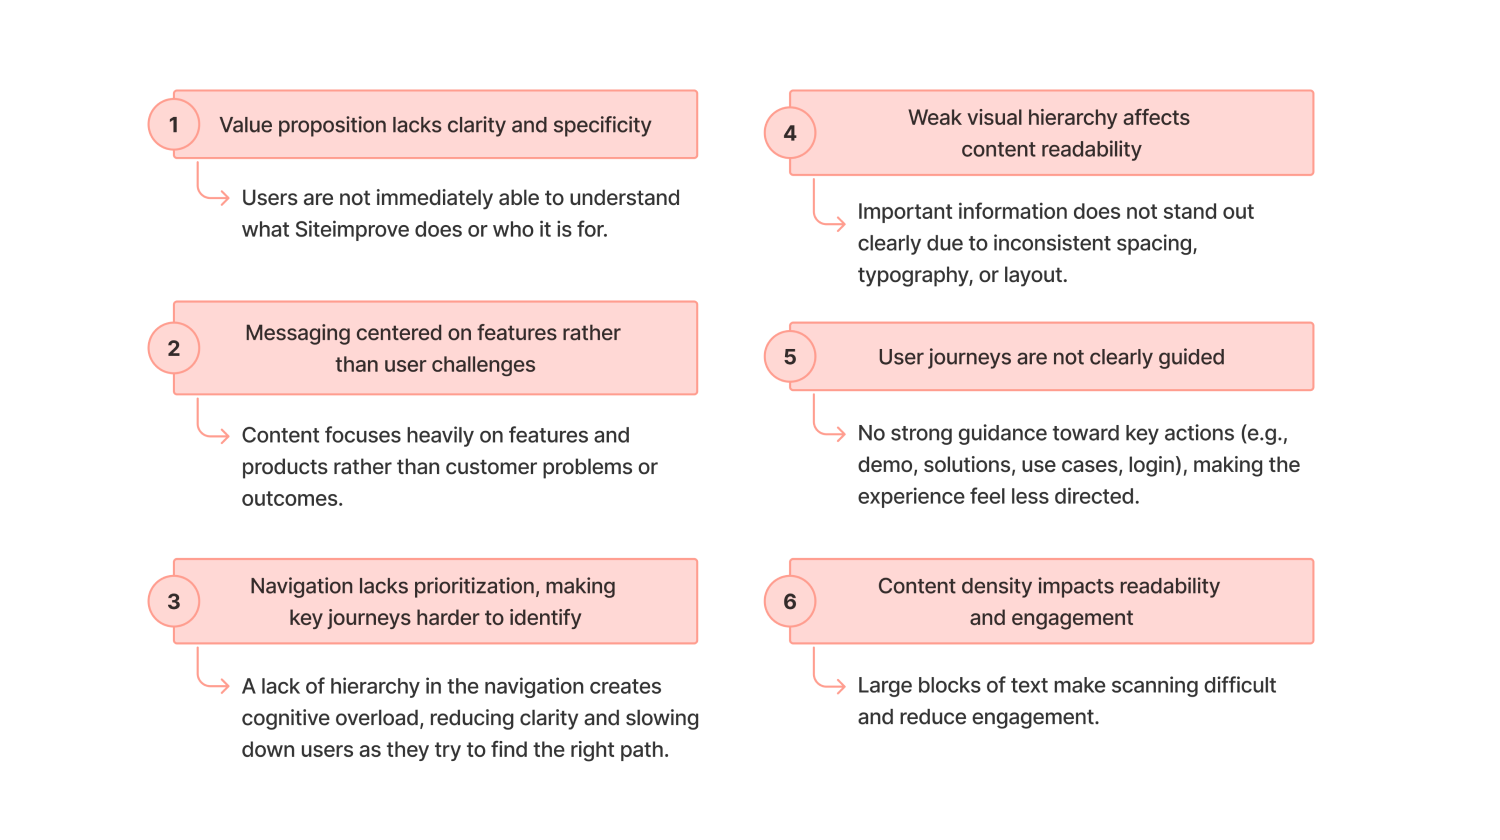
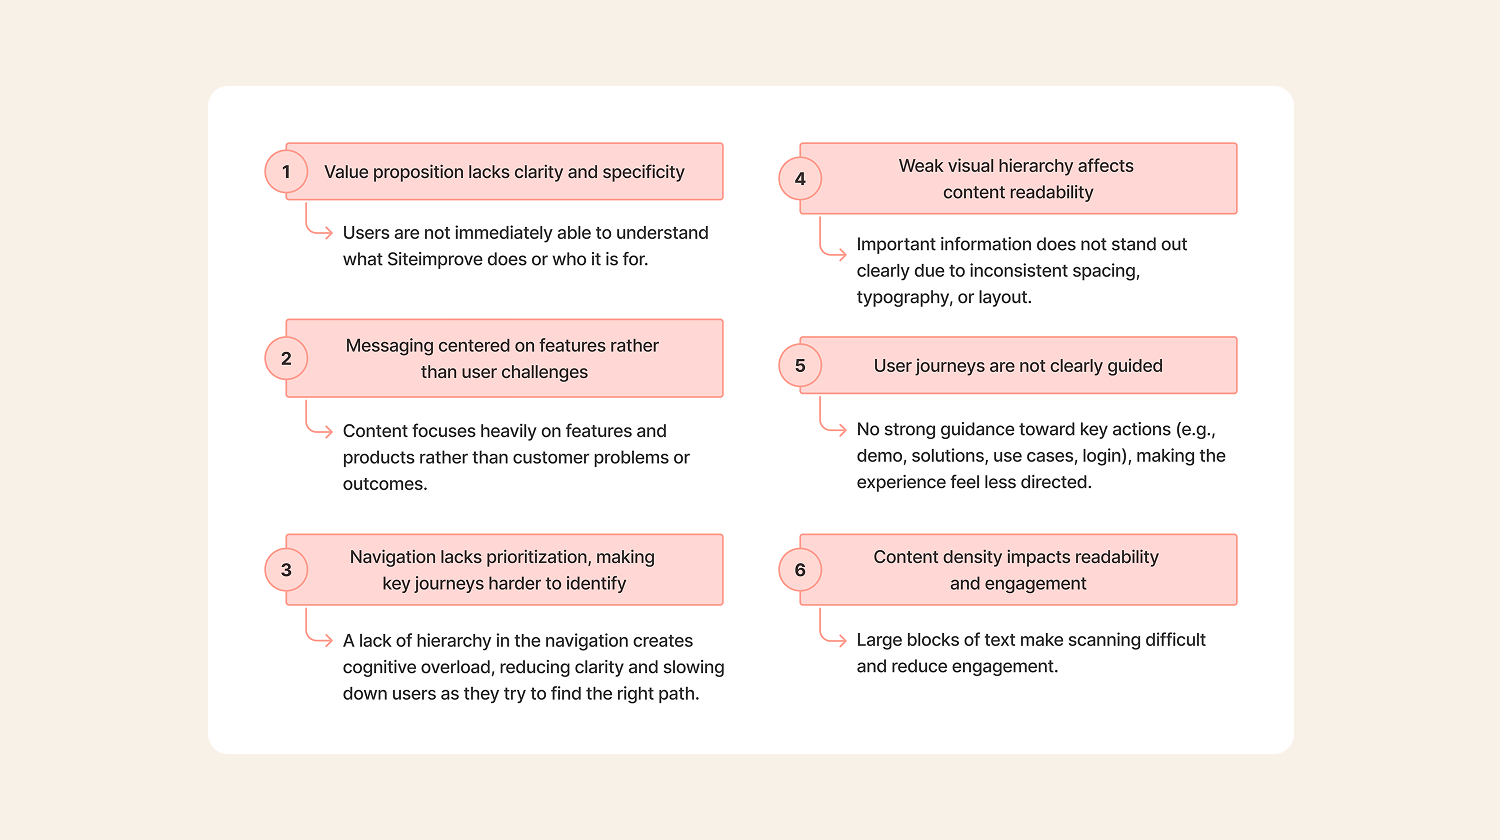
Images updated

Changed region(s): [[0.092, 0.0929, 0.8893, 0.8976]]

diff --git a/projects/project-1.html b/projects/project-1.html
@@ -108,11 +108,21 @@ I collaborated closely with cross-functional teams to ensure alignment between b
         <h3>Benchmarking &amp; Research</h3>
         <p>I analyzed competitors and best-in-class SaaS platforms to identify patterns in messaging clarity, navigation systems, and conversion-focused layouts. This helped define standards for a more modern and user-friendly experience.</p>      
       </div>
+      <!-- <div>
+        <img src="../images/Project1/Project1_Image_Process3_Sitemap.png" alt="Redesigned information architecture and sitemap for improved navigation">
+        <h3>User Personas</h3>
+        <p>To better understand customer needs and behaviors, I collaborated with the Product Marketing team on the creation of audience personas. These profiles helped align messaging, structure, and design decisions around real user goals and pain points throughout the rebranding process.</p>        
+      </div> -->
       <div>
         <img src="../images/Project1/Project1_Image_Process3_Sitemap.png" alt="Redesigned information architecture and sitemap for improved navigation">
         <h3>Information Architecture</h3>
-        <p>I redesigned the website structure to better reflect the platform approach and user needs. This included creating a simplified sitemap, grouping content by user goals rather than product categories, and ensuring intuitive navigation across all levels</p>        
+        <p>I redesigned the website structure to better reflect the platform approach and user needs. This included creating a simplified sitemap, grouping content by user goals rather than product categories, and ensuring intuitive navigation across all levels.</p>        
       </div>
+      <!-- <div>
+        <img src="../images/Project1/Project1_Image_Process4_Prototype.png" alt="Wireframes and prototype for the new website structure">
+        <h3>User Flows</h3>
+        <p>I mapped key user journeys to better understand how visitors navigated the platform and accessed core solutions. These flows helped simplify navigation paths and create a more intuitive experience aligned with user goals.</p>
+      </div> -->
       <div>
         <img src="../images/Project1/Project1_Image_Process4_Prototype.png" alt="Wireframes and prototype for the new website structure">
         <h3>Wireframing &amp; Prototyping</h3>
